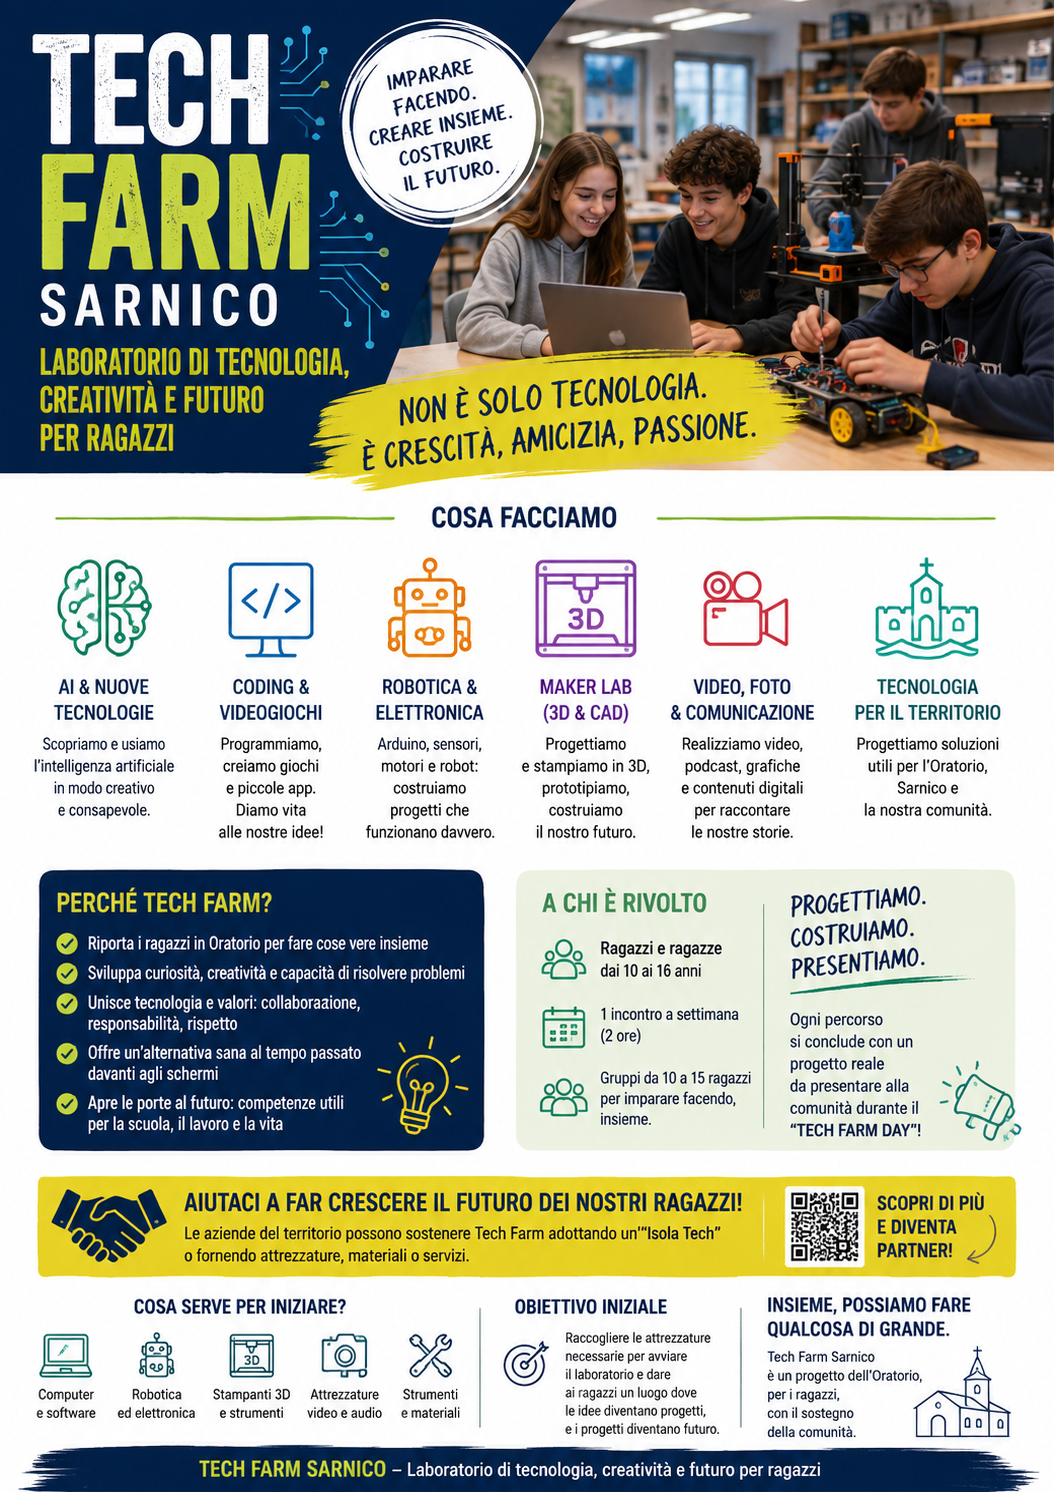
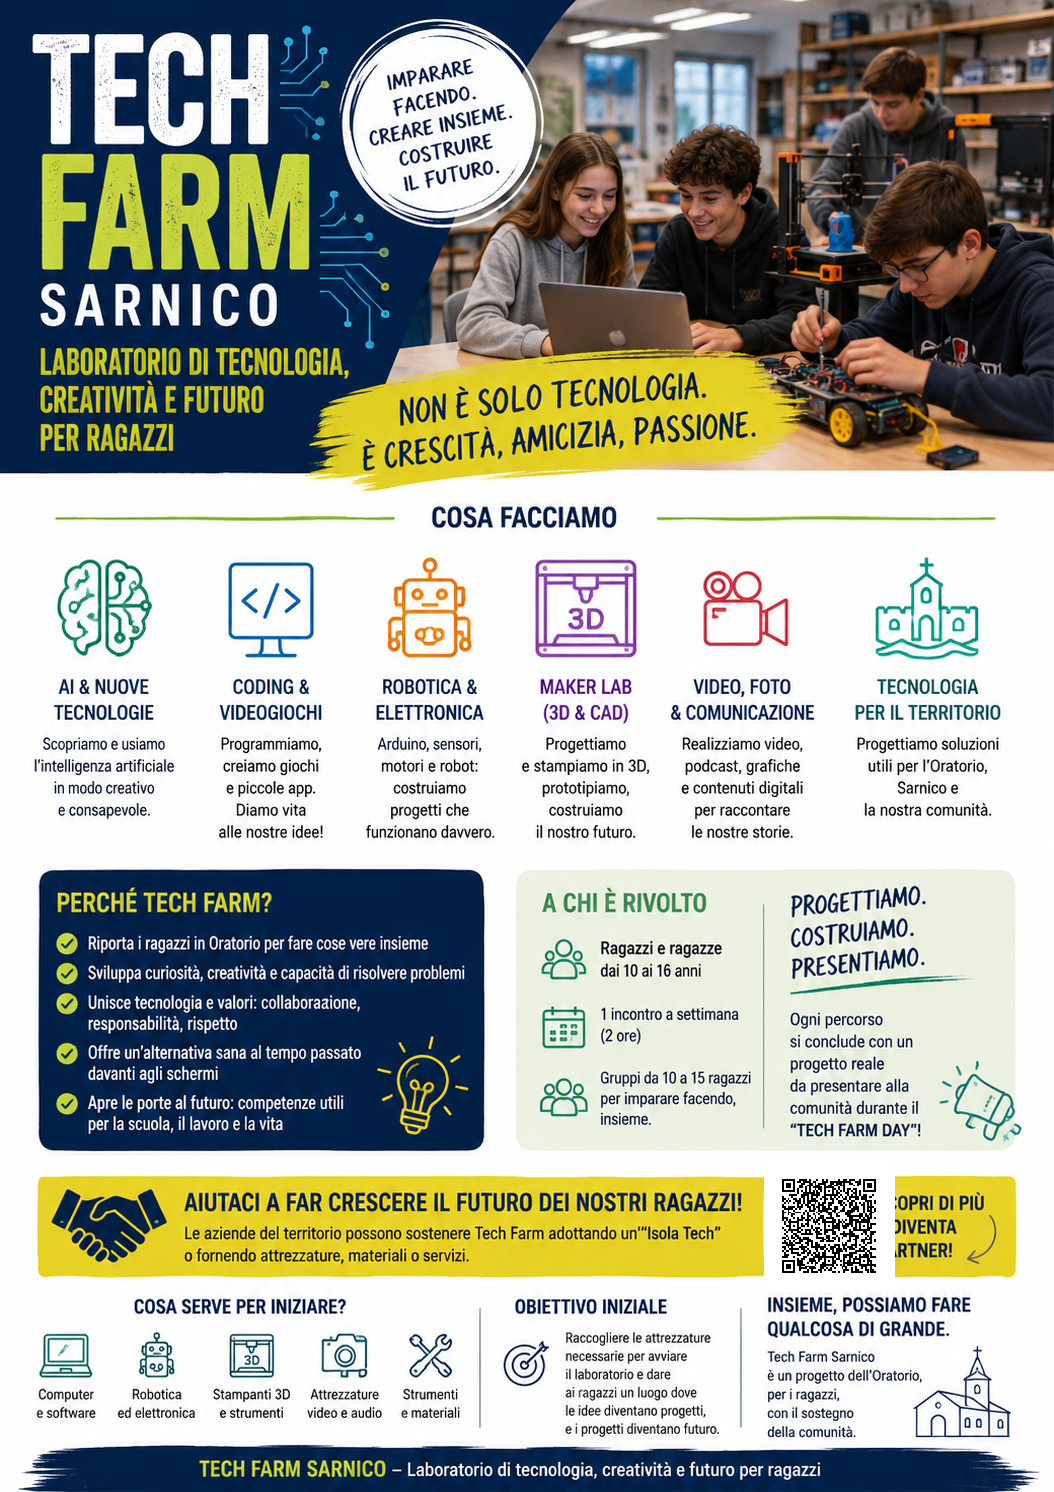
Add files via upload

Changed region(s): [[0.6983, 0.7708, 0.8501, 0.8633]]

diff --git a/index.html b/index.html
@@ -1,97 +1,62 @@
 <!DOCTYPE html>
 <html lang="it">
 <head>
-  <meta charset="UTF-8" />
-  <meta name="viewport" content="width=device-width, initial-scale=1.0" />
-  <meta name="description" content="Tech Farm Sarnico - laboratorio di tecnologia, creatività e futuro per ragazzi." />
+  <meta charset="UTF-8">
+  <meta name="viewport" content="width=device-width, initial-scale=1.0, viewport-fit=cover">
+  <meta name="theme-color" content="#061b3a">
   <title>Tech Farm Sarnico</title>
-  <link rel="stylesheet" href="style.css" />
+  <style>
+    * { box-sizing: border-box; }
+    html, body {
+      margin: 0;
+      padding: 0;
+      width: 100%;
+      min-height: 100%;
+      background: #061b3a;
+    }
+    body {
+      display: flex;
+      justify-content: center;
+      align-items: flex-start;
+      overflow-x: hidden;
+    }
+    a.poster-link {
+      display: block;
+      width: 100vw;
+      max-width: 100%;
+      text-decoration: none;
+      line-height: 0;
+    }
+    img.poster {
+      display: block;
+      width: 100%;
+      height: auto;
+      margin: 0;
+      border: 0;
+    }
+    @media (min-width: 900px) {
+      body {
+        background: #061b3a;
+      }
+      a.poster-link {
+        width: auto;
+        max-width: min(100vw, 1024px);
+      }
+      img.poster {
+        width: 100%;
+      }
+    }
+  </style>
 </head>
 <body>
-  <header class="hero">
-    <div class="overlay"></div>
-    <div class="hero-content">
-      <p class="eyebrow">ORATORIO DI SARNICO</p>
-      <h1>TECH FARM SARNICO</h1>
-      <p class="subtitle">Laboratorio di tecnologia, creatività e futuro per ragazzi</p>
-      <a class="cta" href="#attrezzature">Scopri le attrezzature</a>
-    </div>
-  </header>
-
-  <main>
-    <section class="section intro">
-      <div class="container narrow">
-        <h2>Imparare facendo. Creare insieme. Costruire il futuro.</h2>
-        <p>
-          Tech Farm Sarnico è un progetto educativo pensato per avvicinare ragazze e ragazzi alla tecnologia attraverso esperienze concrete: coding, intelligenza artificiale, robotica, elettronica, stampa 3D, video e progettazione digitale.
-        </p>
-        <p>
-          L'obiettivo è creare uno spazio vivo, collaborativo e accessibile, dove la tecnologia diventa uno strumento per sviluppare curiosità, autonomia, creatività e capacità di risolvere problemi.
-        </p>
-      </div>
-    </section>
-
-    <section class="section poster-section">
-      <div class="container">
-        <h2>Il progetto</h2>
-        <div class="image-card">
-          <img src="locandina-tech-farm.png" alt="Locandina Tech Farm Sarnico" />
-        </div>
-      </div>
-    </section>
-
-    <section id="attrezzature" class="section equipment-section">
-      <div class="container">
-        <div class="section-heading-row">
-          <div>
-            <p class="eyebrow dark">PIANO DI AVVIO</p>
-            <h2>Attrezzature necessarie</h2>
-          </div>
-          <div class="budget-box">
-            <span>Obiettivo indicativo</span>
-            <strong>€ 12.200</strong>
-          </div>
-        </div>
-
-        <div class="image-card">
-          <img src="attrezzature-tech-farm.png" alt="Elenco attrezzature Tech Farm Sarnico" />
-        </div>
-
-        <div class="grid">
-          <article class="card"><h3>Digital & AI</h3><p>Notebook, software, coding, AI e progettazione.</p></article>
-          <article class="card"><h3>Robotica & Coding</h3><p>Kit robotici, Arduino, micro:bit, sensori e motori.</p></article>
-          <article class="card"><h3>3D Maker Lab</h3><p>Stampanti 3D, filamenti, CAD e prototipazione.</p></article>
-          <article class="card"><h3>Elettronica</h3><p>Saldatura, multimetri, alimentatori e componentistica.</p></article>
-          <article class="card"><h3>Media Lab</h3><p>Video, audio, fotografia e comunicazione digitale.</p></article>
-          <article class="card"><h3>Future Lab</h3><p>Tecnologie immersive, sperimentazione e nuovi strumenti.</p></article>
-        </div>
-      </div>
-    </section>
-
-    <section class="section support-section">
-      <div class="container narrow center">
-        <p class="eyebrow">PARTNER DEL TERRITORIO</p>
-        <h2>Aiutaci a far crescere Tech Farm</h2>
-        <p>
-          Aziende, professionisti e sostenitori possono contribuire con una donazione economica, fornendo attrezzature o materiali, oppure mettendo a disposizione competenze e servizi.
-        </p>
-        <div class="support-grid">
-          <div><strong>Adotta una postazione</strong><span>Finanzia un computer o una dotazione specifica.</span></div>
-          <div><strong>Adotta un'Isola Tech</strong><span>Sostieni un intero laboratorio tematico.</span></div>
-          <div><strong>Dona strumenti o materiali</strong><span>Contribuisci direttamente con attrezzature utili.</span></div>
-        </div>
-      </div>
-    </section>
-  </main>
-
-  <footer>
-    <div class="container footer-content">
-      <div>
-        <strong>TECH FARM SARNICO</strong>
-        <span>Laboratorio di tecnologia, creatività e futuro per ragazzi</span>
-      </div>
-      <div class="footer-note">Pagina informativa del progetto</div>
-    </div>
-  </footer>
+  <a class="poster-link"
+     href="attrezzature.html"
+     target="_blank"
+     rel="noopener"
+     aria-label="Apri l'elenco attrezzature Tech Farm">
+    <img class="poster"
+         src="locandina-tech-farm.png"
+         alt="Tech Farm Sarnico - laboratorio di tecnologia, creatività e futuro per ragazzi">
+  </a>
 </body>
 </html>

diff --git a/attrezzature.html b/attrezzature.html
@@ -1,0 +1,36 @@
+<!DOCTYPE html>
+<html lang="it">
+<head>
+  <meta charset="UTF-8">
+  <meta name="viewport" content="width=device-width, initial-scale=1.0, viewport-fit=cover">
+  <meta name="theme-color" content="#061b3a">
+  <title>Attrezzature | Tech Farm Sarnico</title>
+  <style>
+    * { box-sizing: border-box; }
+    html, body {
+      margin: 0;
+      padding: 0;
+      width: 100%;
+      min-height: 100%;
+      background: #061b3a;
+    }
+    body {
+      display: flex;
+      justify-content: center;
+      align-items: flex-start;
+      overflow-x: hidden;
+    }
+    img {
+      display: block;
+      width: 100%;
+      height: auto;
+      max-width: 1536px;
+      margin: 0 auto;
+    }
+  </style>
+</head>
+<body>
+  <img src="attrezzature-tech-farm.png"
+       alt="Elenco attrezzature Tech Farm Sarnico">
+</body>
+</html>

diff --git a/README.md b/README.md
@@ -1,23 +1,16 @@
 # Tech Farm Sarnico
 
-Mini-sito pubblico del progetto Tech Farm Sarnico.
+Versione 2 del minisito.
 
-## File necessari
+## File da caricare nella root del repository
 - `index.html`
-- `style.css`
+- `attrezzature.html`
 - `locandina-tech-farm.png`
 - `attrezzature-tech-farm.png`
 
-## Pubblicazione con GitHub Pages
-1. Crea un repository pubblico chiamato `tech-farm-sarnico`.
-2. Carica tutti i file nella cartella principale del repository.
-3. Vai in **Settings > Pages**.
-4. In **Build and deployment**, seleziona **Deploy from a branch**.
-5. Seleziona branch **main** e cartella **/(root)**.
-6. Salva.
-7. Dopo l'attivazione, GitHub mostrerà l'indirizzo pubblico del sito.
+Il QR presente nella locandina punta a:
 
-L'URL sarà normalmente:
-`https://NOMEUTENTE.github.io/tech-farm-sarnico/`
+https://andreavignoni82-spec.github.io/tech-farm-sarnico/attrezzature.html
 
-Usa quell'URL per generare il QR definitivo della locandina.
+La home mostra soltanto la locandina a tutta larghezza.
+Toccando/cliccando la locandina si apre `attrezzature.html` in una nuova pagina.
